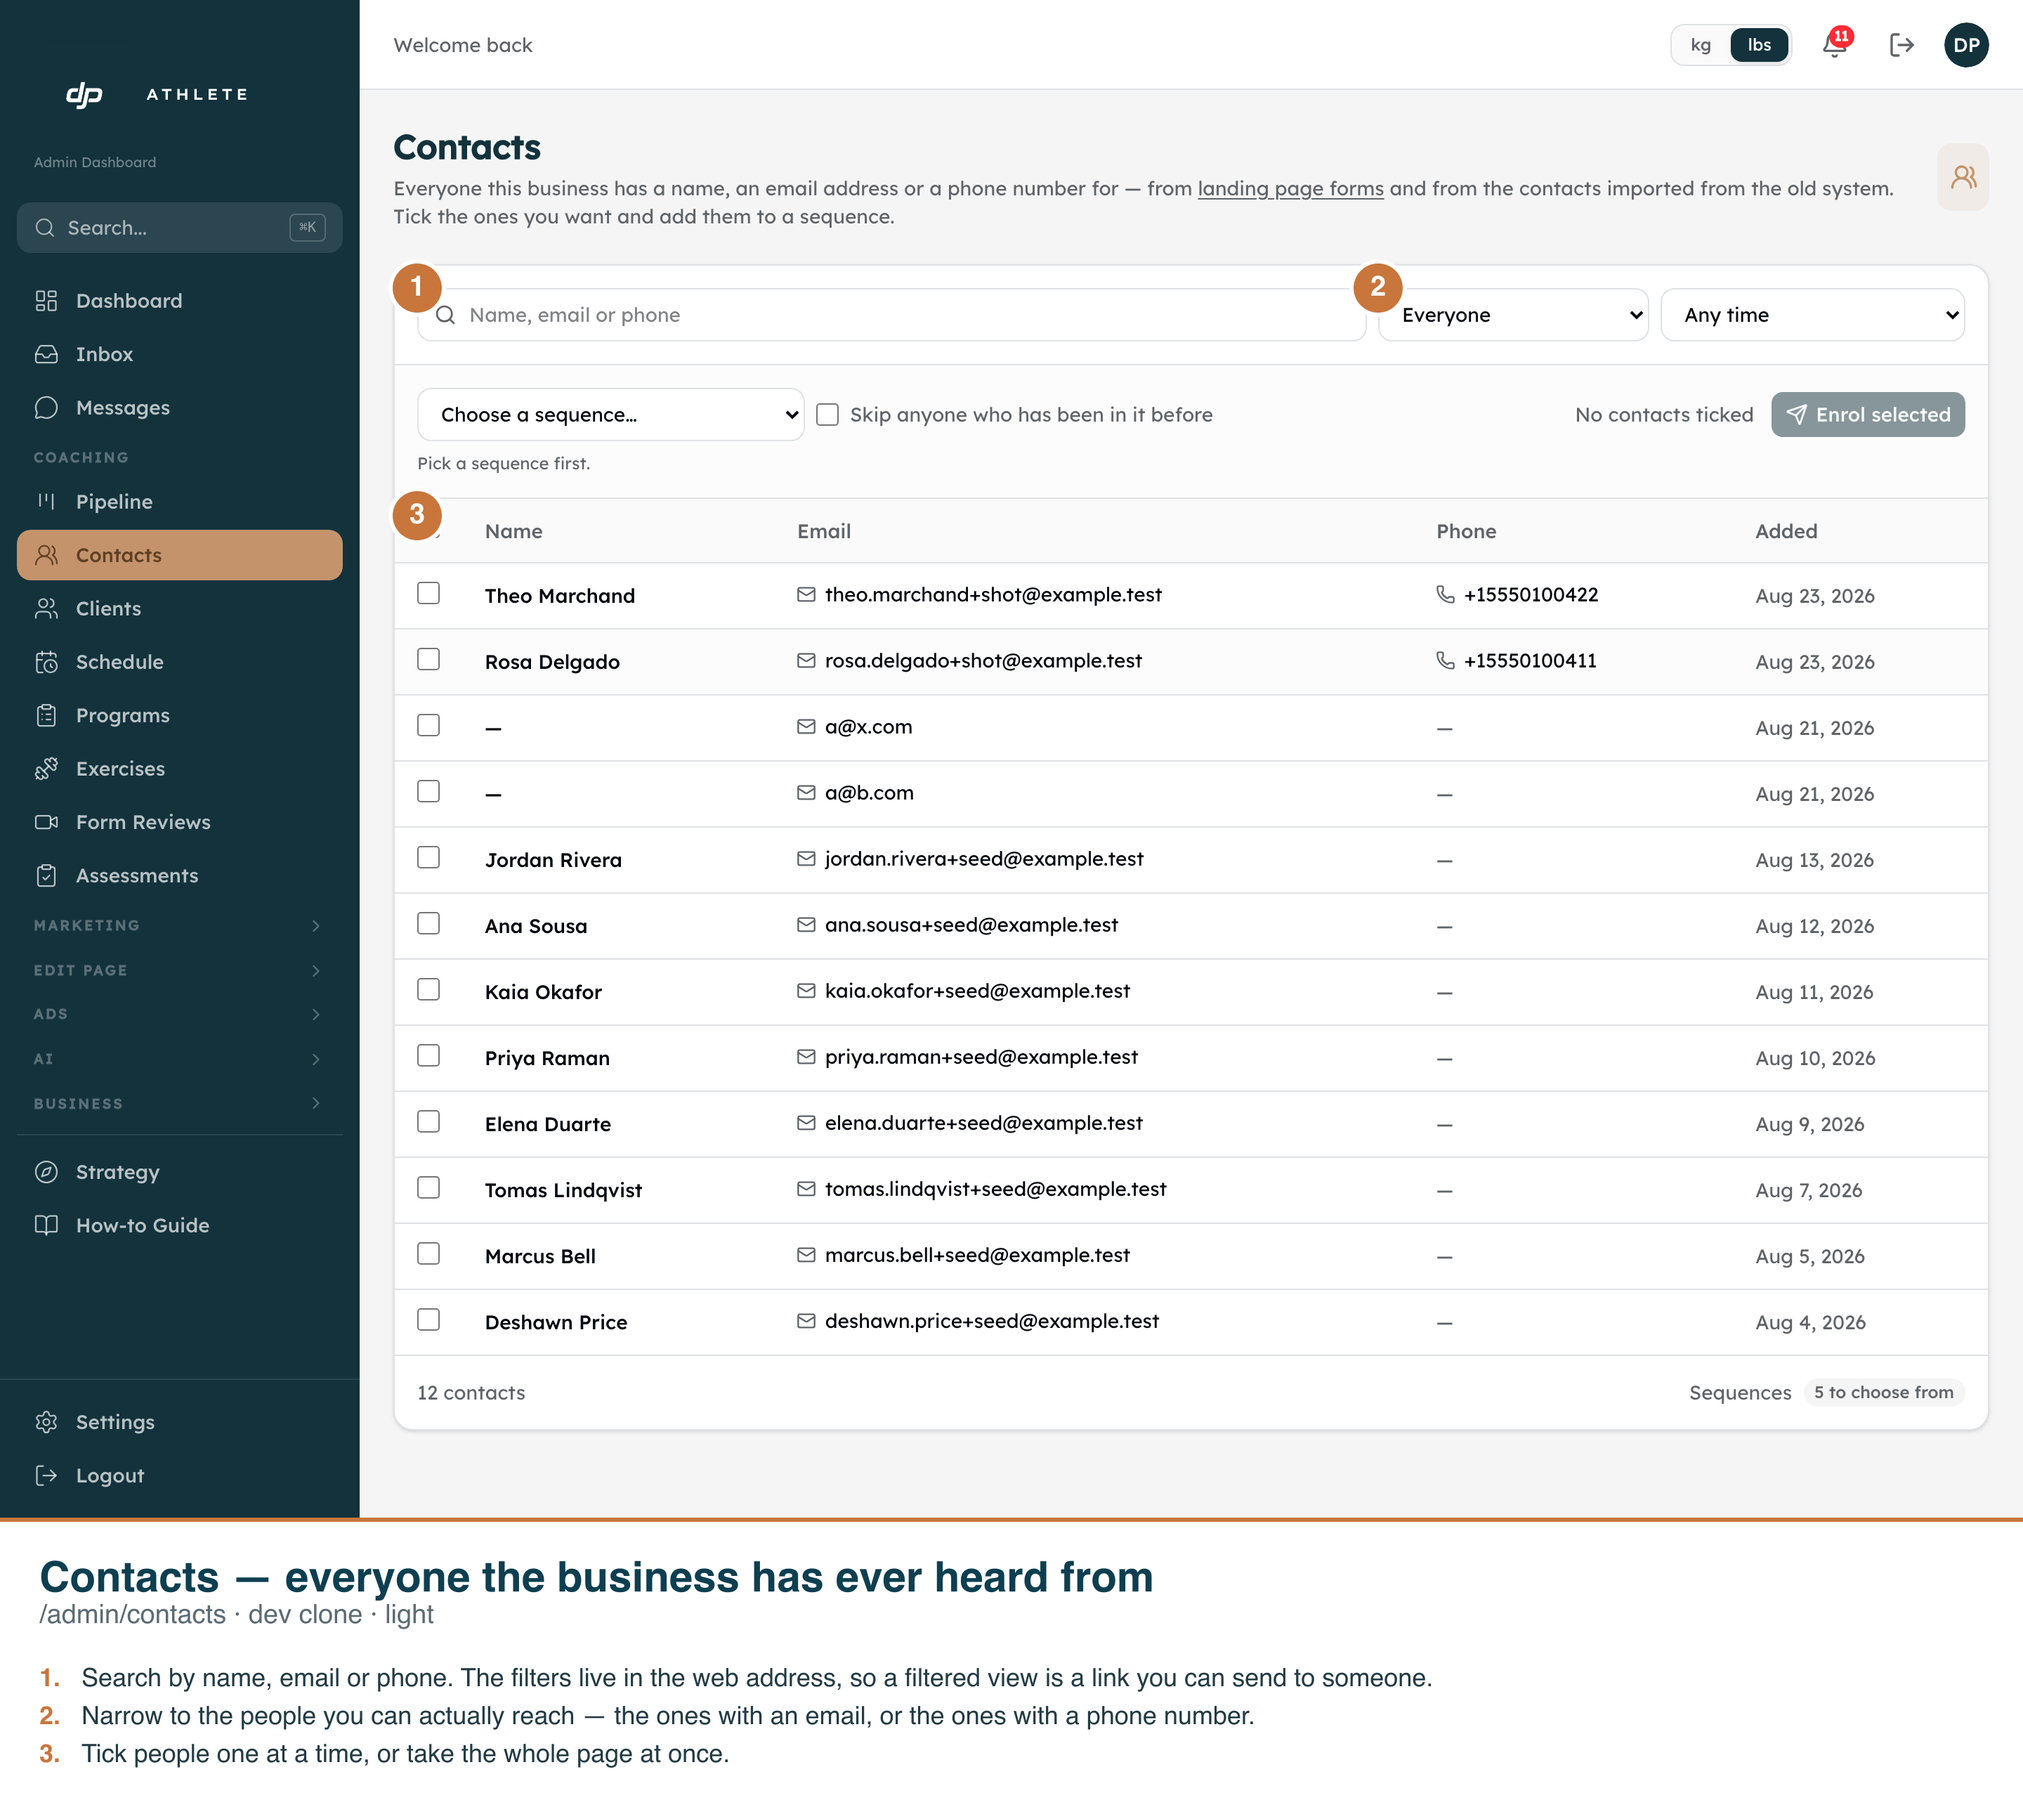
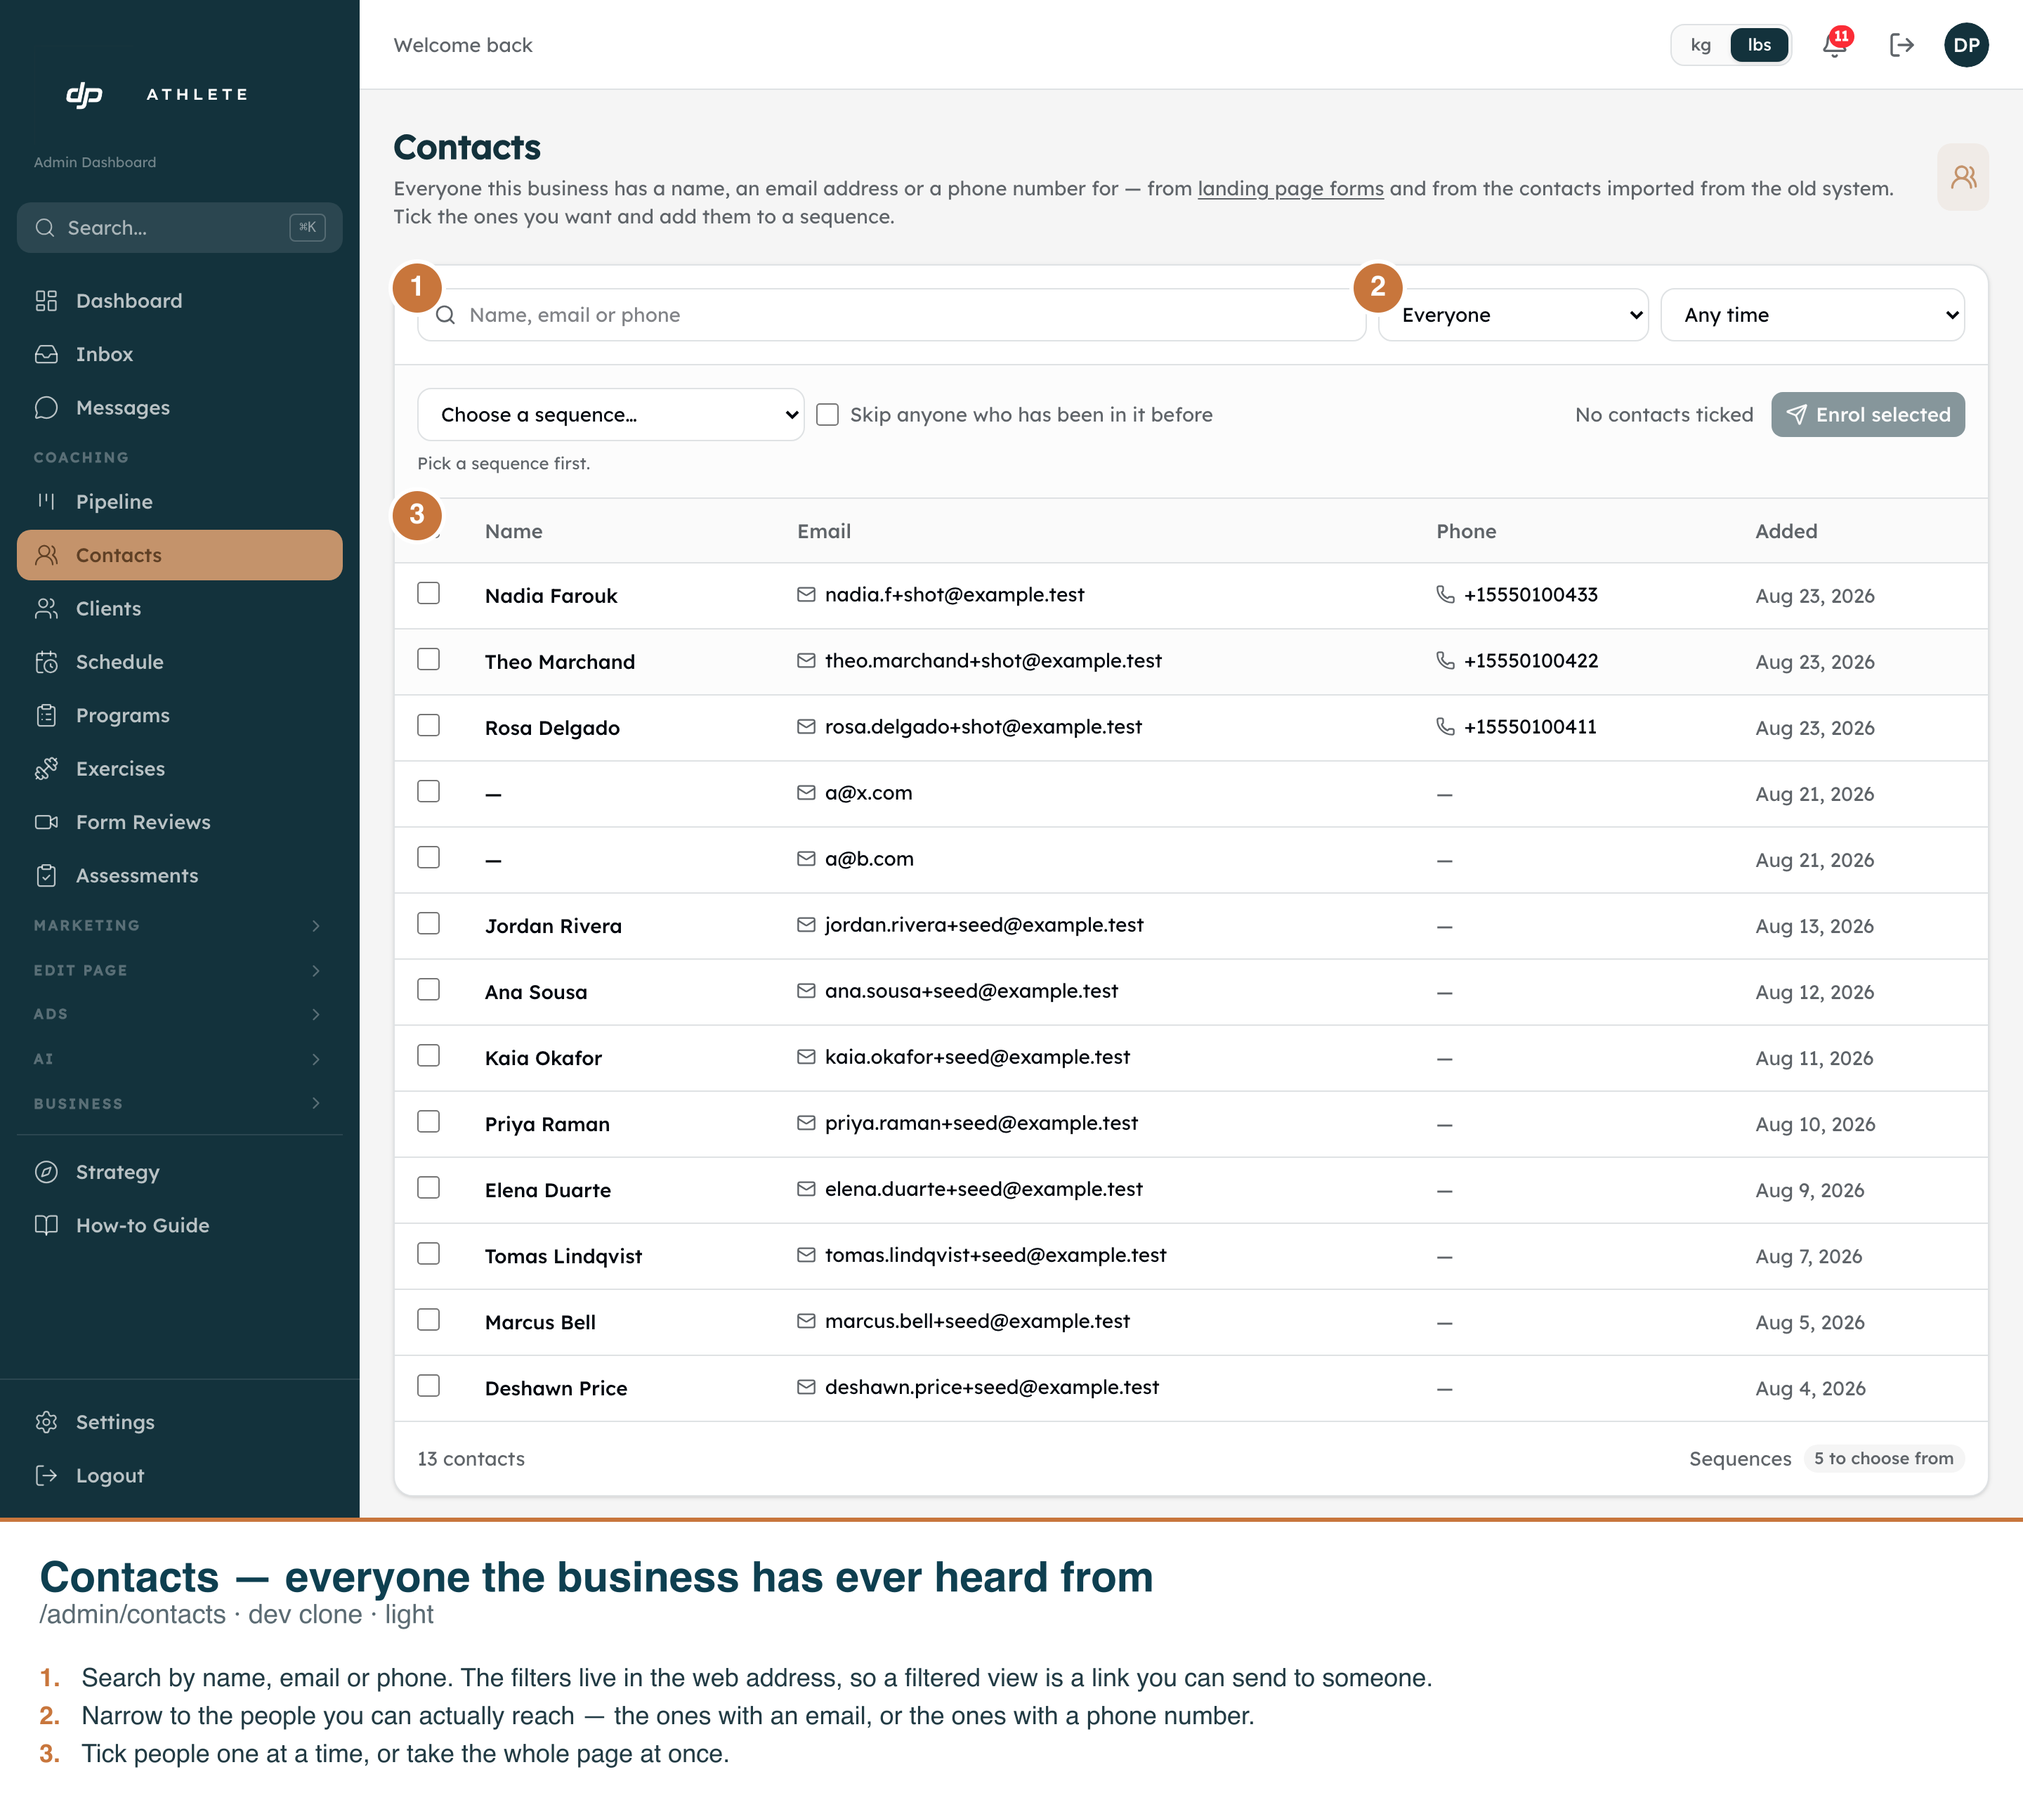
docs(screenshots): re-taken after the fix wave, plus the state it added
The review's fixes changed visible copy on both screens, so the earlier shots
no longer showed the product. Re-driven against the real app.

`08-consent-unsubscribed.png` is new, and it is the one worth looking at. A
suppression is held against the address or the number and either one stops
every message, but the page asked only about the number — so somebody who had
unsubscribed by email was shown "You are all set" while the engine would have
refused every send. Three of the eight shots are now a refusal. That is the
point: a page whose whole job is to be believable cannot only ever say yes.

diff --git a/scripts/capture-loose-ends-screenshots.ts b/scripts/capture-loose-ends-screenshots.ts
@@ -187,6 +187,7 @@ async function main(): Promise<void> {
   // all back whether we finish or throw.
   const madeContactIds: string[] = []
   const madePhones: string[] = []
+  const madeSuppressions: string[] = []
   let displayNameSet = false
 
   try {
@@ -223,9 +224,12 @@ async function main(): Promise<void> {
 
     const agreePhone = "+15550100411"
     const stoppedPhone = "+15550100422"
+    const unsubEmail = "nadia.f+shot@example.test"
+    const unsubPhone = "+15550100433"
     for (const [name, email, phone] of [
       ["Rosa Delgado", "rosa.delgado+shot@example.test", agreePhone],
       ["Theo Marchand", "theo.marchand+shot@example.test", stoppedPhone],
+      ["Nadia Farouk", unsubEmail, unsubPhone],
     ] as const) {
       const [row] = (await rest("contacts", {
         method: "POST",
@@ -234,14 +238,23 @@ async function main(): Promise<void> {
       madeContactIds.push(row.id)
       madePhones.push(phone)
     }
-    const [agreeContact, stoppedContact] = madeContactIds
+    const [agreeContact, stoppedContact, unsubContact] = madeContactIds
 
-    // The STOP is the only way to reach the refusal state, and no UI here
-    // sends one.
+    // Neither of these can be reached by driving the interface. A STOP arrives
+    // over SMS from a handset; an unsubscribe is a suppression keyed on the
+    // EMAIL address, and it is the one that used to be missed — the page
+    // checked the phone only, so an unsubscribed contact was told "you are all
+    // set" while the engine would refuse every send.
     await rest("contact_suppressions", {
       method: "POST",
       body: JSON.stringify({ business_id: BIZ, identifier: stoppedPhone, reason: "sms_stop" }),
     })
+    madeSuppressions.push(stoppedPhone)
+    await rest("contact_suppressions", {
+      method: "POST",
+      body: JSON.stringify({ business_id: BIZ, identifier: unsubEmail, reason: "unsubscribed" }),
+    })
+    madeSuppressions.push(unsubEmail)
 
     // ---- the consent ask --------------------------------------------------
     await page.goto(smsConsentUrl(APP, agreeContact, BIZ), { waitUntil: "networkidle" })
@@ -282,6 +295,22 @@ async function main(): Promise<void> {
           page,
           "h1",
           "A STOP came from their own handset; a tapped link in an email is a weaker signal, so it cannot undo one. Telling them they are all set while they stayed blocked would simply be a lie.",
+        ),
+      ],
+    )
+
+    // ---- the person who unsubscribed from the emails ----------------------
+    await page.goto(smsConsentUrl(APP, unsubContact, BIZ), { waitUntil: "networkidle" })
+    await shoot(
+      page,
+      "08-consent-unsubscribed",
+      "Someone who unsubscribed is not offered a button either",
+      "/sms-consent/<token> · light",
+      [
+        await markerAt(
+          page,
+          "h1",
+          "Suppression is held against the address or the number, and either one stops every message. This page used to ask only about the number, so somebody who had unsubscribed was told they were all set while nothing would ever be sent.",
         ),
       ],
     )
@@ -366,8 +395,8 @@ async function main(): Promise<void> {
       await rest(`sequence_runs?contact_id=eq.${id}`, { method: "DELETE" }).catch(() => [])
       await rest(`contacts?id=eq.${id}`, { method: "DELETE" }).catch(() => [])
     }
-    for (const phone of madePhones) {
-      await rest(`contact_suppressions?identifier=eq.${encodeURIComponent(phone)}`, { method: "DELETE" }).catch(
+    for (const identifier of [...madeSuppressions, ...madePhones]) {
+      await rest(`contact_suppressions?identifier=eq.${encodeURIComponent(identifier)}`, { method: "DELETE" }).catch(
         () => [],
       )
     }

diff --git a/screenshots/lead-engine-loose-ends/README.md b/screenshots/lead-engine-loose-ends/README.md
@@ -39,19 +39,27 @@ than as an error case.
 | `05-consent-confirmed.png` | After pressing "I agree" |
 | `06-consent-stopped.png` | Someone who already texted STOP — no button, and the honest reason |
 | `07-consent-not-ready.png` | The business has no name on file, so there is no sentence to agree to |
+| `08-consent-unsubscribed.png` | Someone who unsubscribed by email — also refused, and told why |
 
 The sentence in `04` is the exact string filed as `contact_consents.wording_shown`.
 The page never hands its own copy to the write, so the two cannot drift apart.
 
+`08` exists because of a review finding. Suppression is held against the
+address *or* the number and either one stops every message, but the page
+originally asked only about the number — so somebody who had unsubscribed was
+shown "You are all set" while the engine would have refused every send. Three
+of the eight shots here are a refusal, which is the point: this page's job is
+to be believable, and a page that only ever says yes is not.
+
 ## What the capture run touched, and put back
 
-Three states cannot be reached by driving the interface, so the script sets
-them up on the clone and reverses every one in a `finally` block: a business
-with its display name filled in, two contacts carrying phone numbers, and a
-suppression row standing in for a past STOP. Verified afterwards — display
-name back to blank, both contacts gone, suppression gone, contact count back
-to its original 10.
+Four states cannot be reached by driving the interface, so the script sets them
+up on the clone and reverses every one in a `finally` block: a business with
+its display name filled in, three contacts carrying phone numbers, a
+suppression row standing in for a past STOP, and another standing in for an
+unsubscribe. Verified afterwards — display name back to blank, all three
+contacts gone, both suppressions gone, contact count back to its original 10.
 
-That is why `01`–`03` read "12 contacts": the two temporary ones were present
-at the moment of capture. Their phone numbers are what make the Phone column
-worth looking at, since the seeded clone contacts carry none.
+That is why `01`–`03` read "12 contacts": two of the temporary ones were
+present at the moment of capture. Their phone numbers are what make the Phone
+column worth looking at, since the seeded clone contacts carry none.
